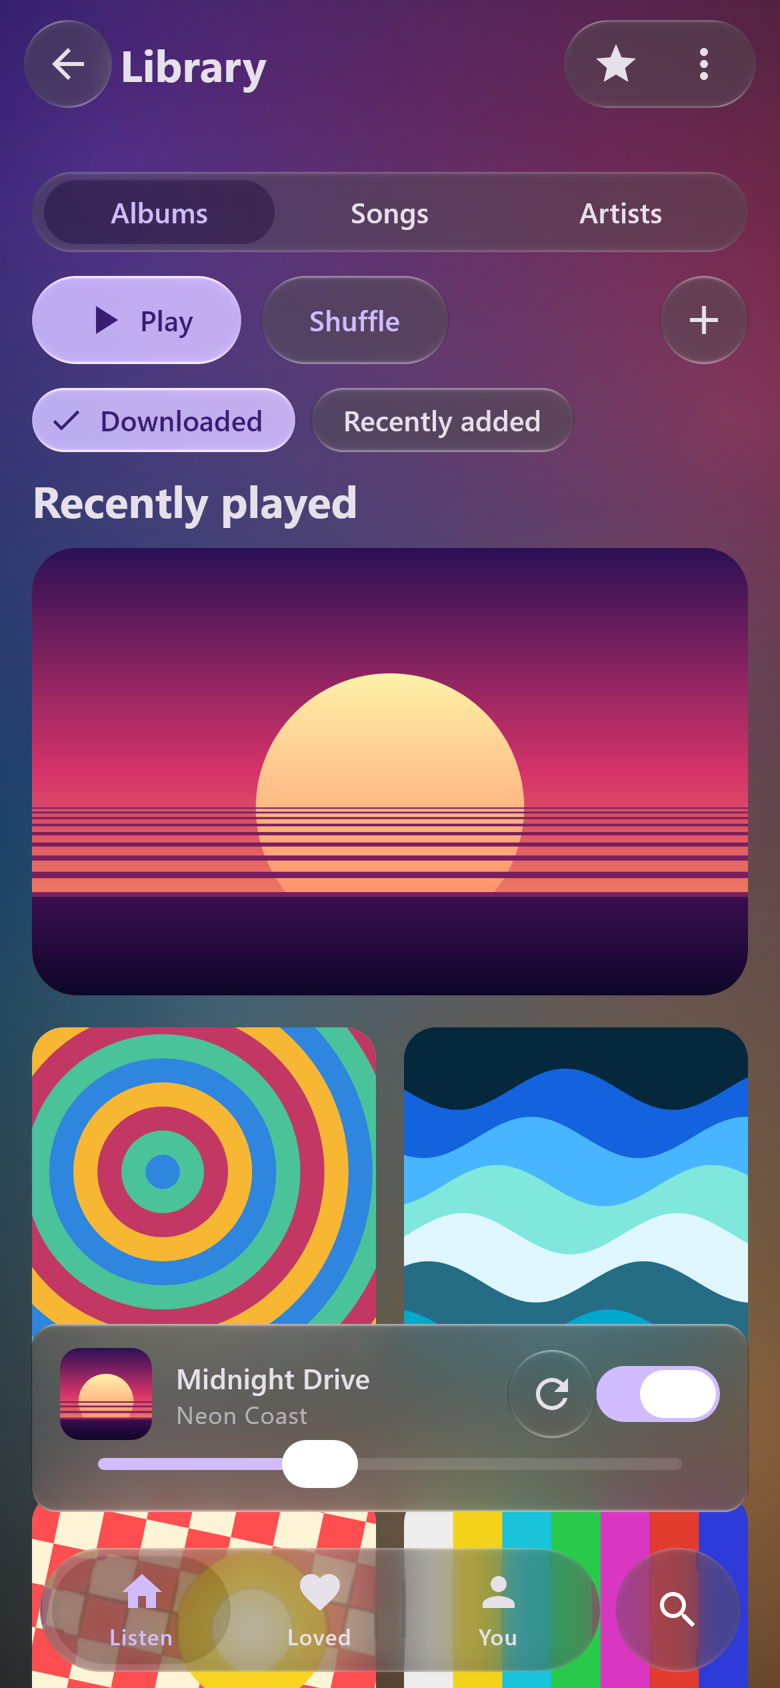
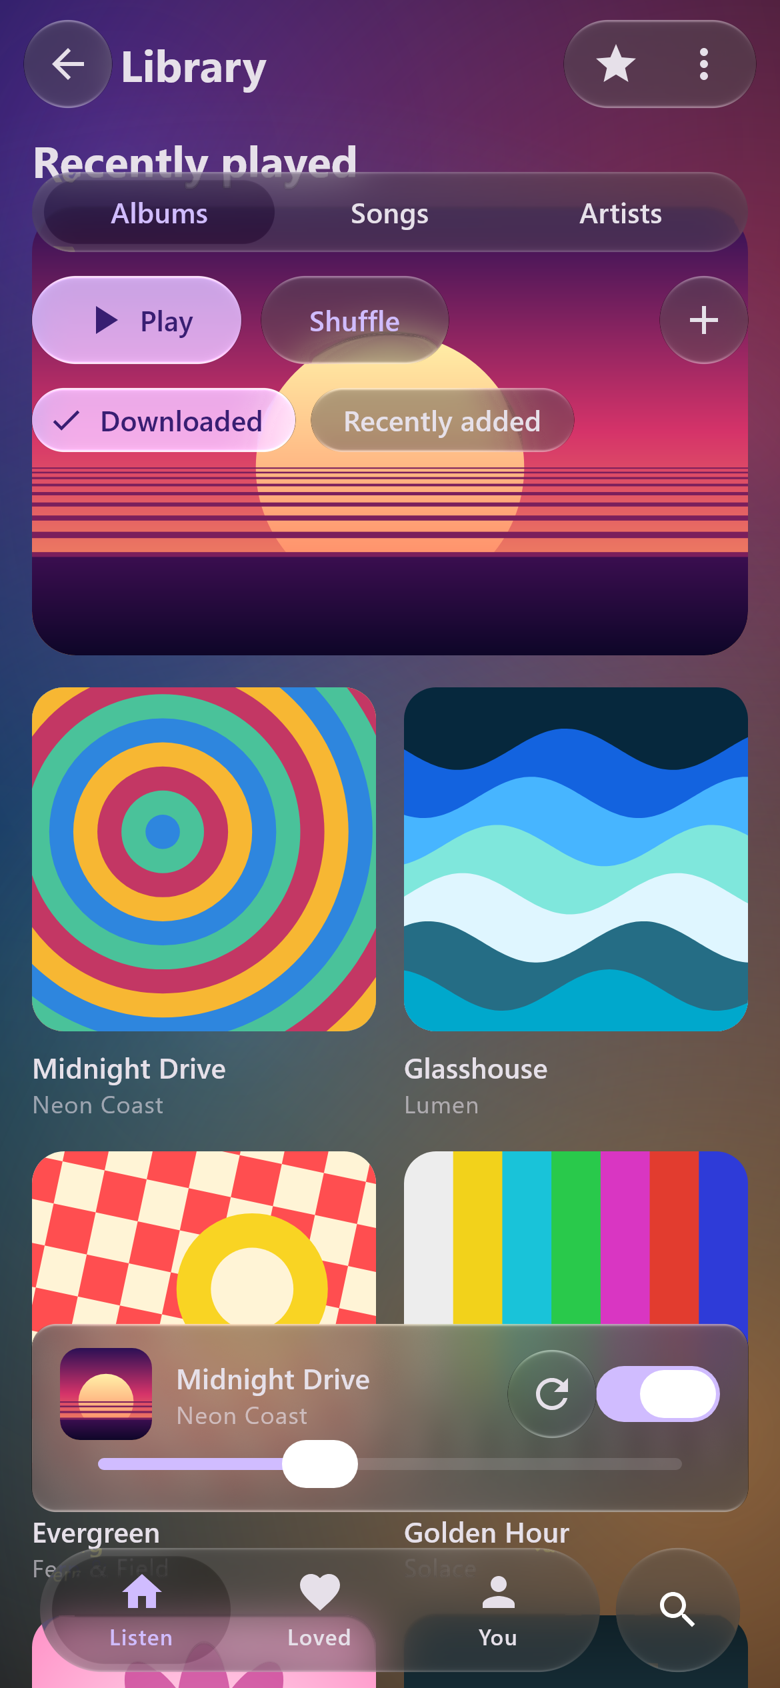
Android: tall frosted glass keeps its backdrop; the showcase scrolls under its glass
On Android the frost blur was chained ahead of the glass shader, and Skia
evaluates a chained blur only inside the window, while the shader also samples
the wide-tone strip recorded below the element. A tall sheet at the bottom of
the screen lost every row reading that strip and showed a flat block. Android
now blurs the backdrop composite in a nested layer (backdropBlurInRecording);
desktop and web keep Skia's filter graph and are unchanged. Pixel 7 before and
after in review/atlas/android-frost-2026-10-19. Core suite 413/0/27.

MaterialShowcase(startScroll, startSheet): the README and docs now show it
scrolled, with album art under the top glass. The star button has a glass
tooltip; a long press that shows a tooltip no longer also clicks its anchor.

diff --git a/liquidglass/src/commonMain/kotlin/com/wexpa/liquidglass/LiquidGlass.kt b/liquidglass/src/commonMain/kotlin/com/wexpa/liquidglass/LiquidGlass.kt
@@ -328,6 +328,9 @@ internal fun Modifier.liquidGlassCore(
     val shadowLayer = rememberGraphicsLayer()
     // The raw backdrop that GlassStyle.rawShare adds, blurred by GlassStyle.rawBlur.
     val rawLayer = rememberGraphicsLayer()
+    // The backdrop composite blurred on its own, where the platform cannot chain the frost ahead of
+    // the shader (see backdropBlurInRecording).
+    val frostLayer = rememberGraphicsLayer()
     // Effects are rebuilt only when their inputs change: building one binds some fifty
     // uniforms and allocates, per panel, and on a scrolling screen the inputs are the same
     // frame after frame (the backdrop changes, the uniforms do not).
@@ -690,7 +693,15 @@ internal fun Modifier.liquidGlassCore(
                     wideStrip = if (useWide) paddedSize.height.toFloat() else 0f,
                     wideScale = wideScale,
                 )
-                val effect = effects.panel(uniforms)
+                // The frost (backdropSigma, or the legacy backdropBlur radius). Where the platform
+                // evaluates a blur chained ahead of the shader only inside the window, a panel whose
+                // strip of wide tone lies off-screen (a tall sheet at the bottom of the screen) loses
+                // the rows the shader samples there; there the frost is baked into the recording
+                // instead and the panel's own effect carries no blur.
+                val frostSigmaPx = if (style.backdropSigma.isSpecified && style.backdropSigma.value > 0f) style.backdropSigma.toPx() * rs else 0f
+                val frostRadiusPx = style.backdropBlur.toPx() * rs
+                val frostInRecording = backdropBlurInRecording && (frostSigmaPx > 0f || frostRadiusPx > 0f)
+                val effect = effects.panel(if (frostInRecording) uniforms.copy(backdropSigma = 0f, backdropBlur = 0f) else uniforms)
                 if (effect != null) {
                     val fullPadded = IntSize(
                         (size.width + pad * 2f).toInt().coerceAtLeast(1),
@@ -764,7 +775,10 @@ internal fun Modifier.liquidGlassCore(
                         }
                         wideLayer.renderEffect = effects.wide(uniforms.wideKernel * wideScale)
                     }
-                    glassLayer.record(size = IntSize(paddedSize.width, paddedSize.height + stripSize.height)) {
+                    // The backdrop composite: the ground, the slice under the panel, its shadow and
+                    // whatever sits between. Drawn straight into the panel's layer, or into the frost
+                    // layer first where the frost is baked in (frostInRecording).
+                    val backdropComposite: androidx.compose.ui.graphics.drawscope.DrawScope.() -> Unit = {
                       scale(rs, rs, pivot = Offset.Zero) {
                     // Fill with the ground first. The padded slice reaches past the backdrop
                     // near a screen edge, and the backdrop is itself transparent wherever the
@@ -799,6 +813,13 @@ internal fun Modifier.liquidGlassCore(
                             }
                         }
                       }
+                    }
+                    if (frostInRecording) {
+                        frostLayer.record(size = paddedSize) { backdropComposite() }
+                        frostLayer.renderEffect = effects.frost(frostSigmaPx, frostRadiusPx)
+                    }
+                    glassLayer.record(size = IntSize(paddedSize.width, paddedSize.height + stripSize.height)) {
+                      if (frostInRecording) drawLayer(frostLayer) else backdropComposite()
                       // The strip goes in LAST: the ground fill and the backdrop above are drawn
                       // over the whole layer, strip rows included, and would paint over it.
                       if (useWide) {
@@ -1085,6 +1106,20 @@ internal class GlassEffectCache {
         return wideEffect
     }
 
+    private var frostKey: Pair<Float, Float>? = null
+    private var frostEffect: androidx.compose.ui.graphics.RenderEffect? = null
+
+    /** The frost baked into the recording: a [sigmaPx] (backdropSigma) or else a legacy [radiusPx]. */
+    fun frost(sigmaPx: Float, radiusPx: Float): androidx.compose.ui.graphics.RenderEffect {
+        val key = sigmaPx to radiusPx
+        if (key != frostKey) {
+            val r = if (sigmaPx > 0f) platformBlurRadiusForSigma(sigmaPx) else radiusPx
+            frostEffect = BlurEffect(r, r, TileMode.Clamp)
+            frostKey = key
+        }
+        return frostEffect!!
+    }
+
     fun raw(blurPx: Float): androidx.compose.ui.graphics.RenderEffect {
         if (blurPx != rawSigma) {
             rawEffect = BlurEffect(blurPx, blurPx, TileMode.Clamp)
@@ -1122,6 +1157,13 @@ expect object LiquidGlassSupport {
 
 /** The host can bind separately transformed material and ink inputs to one aperture effect. */
 internal expect val supportsGlassEndpointInputs: Boolean
+
+/**
+ * True where a blur chained ahead of the glass shader is evaluated only inside the window (Android's
+ * RenderEffect chain), so the frost has to be baked into the recording instead. Skia's image-filter
+ * graph on desktop and the web blurs the backdrop as a separate input and keeps the chain.
+ */
+internal expect val backdropBlurInRecording: Boolean
 
 /**
  * Corner radii in px, in the order the shader expects: TL, TR, BR, BL.

diff --git a/sample/src/main/kotlin/shared/com/wexpa/liquidglass/sample/MaterialShowcase.kt b/sample/src/main/kotlin/shared/com/wexpa/liquidglass/sample/MaterialShowcase.kt
@@ -5,6 +5,7 @@ import androidx.compose.foundation.layout.*
 import androidx.compose.foundation.lazy.grid.GridCells
 import androidx.compose.foundation.lazy.grid.GridItemSpan
 import androidx.compose.foundation.lazy.grid.LazyVerticalGrid
+import androidx.compose.foundation.lazy.grid.rememberLazyGridState
 import androidx.compose.foundation.shape.RoundedCornerShape
 import androidx.compose.material.icons.Icons
 import androidx.compose.material.icons.automirrored.filled.ArrowBack
@@ -12,6 +13,8 @@ import androidx.compose.material.icons.filled.*
 import androidx.compose.material3.Icon
 import androidx.compose.material3.MaterialTheme
 import androidx.compose.material3.Text
+import androidx.compose.material3.TooltipDefaults
+import androidx.compose.material3.rememberTooltipState
 import androidx.compose.material3.darkColorScheme
 import androidx.compose.material3.lightColorScheme
 import androidx.compose.runtime.*
@@ -27,6 +30,8 @@ import androidx.compose.ui.graphics.drawscope.DrawScope
 import androidx.compose.ui.graphics.drawscope.Stroke
 import androidx.compose.ui.graphics.drawscope.rotate
 import androidx.compose.ui.text.font.FontWeight
+import androidx.compose.ui.platform.LocalDensity
+import androidx.compose.ui.unit.Dp
 import androidx.compose.ui.unit.dp
 import com.wexpa.liquidglass.material3.*
 import kotlin.math.PI
@@ -48,7 +53,13 @@ private val Albums = listOf(
  */
 @OptIn(androidx.compose.material3.ExperimentalMaterial3Api::class)
 @Composable
-fun MaterialShowcase(onSwitchScreen: () -> Unit, startDark: Boolean = false) {
+fun MaterialShowcase(
+    onSwitchScreen: () -> Unit,
+    startDark: Boolean = false,
+    startSheet: Boolean = false,
+    /** Start scrolled this far, so the album art already sits under the top bar's glass. */
+    startScroll: Dp = 0.dp,
+) {
     var dark by remember { mutableStateOf(startDark) }
     MaterialTheme(colorScheme = if (dark) darkColorScheme() else lightColorScheme()) {
         var tab by remember { mutableIntStateOf(0) }
@@ -57,7 +68,7 @@ fun MaterialShowcase(onSwitchScreen: () -> Unit, startDark: Boolean = false) {
         var progress by remember { mutableFloatStateOf(.38f) }
         var crossfade by remember { mutableStateOf(true) }
         var dialog by remember { mutableStateOf(false) }
-        var sheet by remember { mutableStateOf(false) }
+        var sheet by remember { mutableStateOf(startSheet) }
         var menu by remember { mutableStateOf(false) }
         var downloaded by remember { mutableStateOf(true) }
         Scaffold(
@@ -67,7 +78,11 @@ fun MaterialShowcase(onSwitchScreen: () -> Unit, startDark: Boolean = false) {
                     title = { Text("Library", fontWeight = FontWeight.Bold) },
                     navigationIcon = { IconButton(onClick = onSwitchScreen) { Icon(Icons.AutoMirrored.Filled.ArrowBack, "Atlas Studio") } },
                     actions = {
-                        IconButton(onClick = { dark = !dark }) { Icon(Icons.Default.Star, "Switch light and dark") }
+                        // Hold (or hover) for the glass tooltip.
+                        TooltipBox(TooltipDefaults.rememberPlainTooltipPositionProvider(),
+                            { PlainTooltip { Text(if (dark) "Switch to light" else "Switch to dark") } }, rememberTooltipState()) {
+                            IconButton(onClick = { dark = !dark }) { Icon(Icons.Default.Star, "Switch light and dark") }
+                        }
                         Box {
                             IconButton(onClick = { menu = true }) { Icon(Icons.Default.MoreVert, "More") }
                             DropdownMenu(expanded = menu, onDismissRequest = { menu = false }) {
@@ -91,8 +106,10 @@ fun MaterialShowcase(onSwitchScreen: () -> Unit, startDark: Boolean = false) {
         ) { padding ->
             Box(Modifier.fillMaxSize()) {
                 Wallpaper(dark, Modifier.fillMaxSize())
+                val scrollPx = with(LocalDensity.current) { startScroll.roundToPx() }
                 LazyVerticalGrid(
                     GridCells.Adaptive(150.dp), Modifier.fillMaxSize(),
+                    state = rememberLazyGridState(initialFirstVisibleItemScrollOffset = scrollPx),
                     contentPadding = PaddingValues(start = 16.dp, end = 16.dp, top = padding.calculateTopPadding() + 172.dp, bottom = 240.dp),
                     horizontalArrangement = Arrangement.spacedBy(14.dp), verticalArrangement = Arrangement.spacedBy(16.dp),
                 ) {

diff --git a/desktop/src/desktopTest/kotlin/com/wexpa/liquidglass/sample/desktop/MaterialShowcaseRenderTest.kt b/desktop/src/desktopTest/kotlin/com/wexpa/liquidglass/sample/desktop/MaterialShowcaseRenderTest.kt
@@ -27,10 +27,10 @@ import kotlin.time.Duration.Companion.minutes
 class MaterialShowcaseRenderTest {
     private val out = File("build/reports/atlas/showcase").apply { mkdirs() }
 
-    private fun shoot(name: String, dark: Boolean) = runDesktopComposeUiTest(1170, 2532, testTimeout = 6.minutes) {
+    private fun shoot(name: String, dark: Boolean, scroll: androidx.compose.ui.unit.Dp = 0.dp) = runDesktopComposeUiTest(1170, 2532, testTimeout = 6.minutes) {
         setContent {
             CompositionLocalProvider(LocalDensity provides Density(3f)) {
-                Box(Modifier.size(390.dp, 844.dp).testTag("app")) { MaterialShowcase(onSwitchScreen = {}, startDark = dark) }
+                Box(Modifier.size(390.dp, 844.dp).testTag("app")) { MaterialShowcase(onSwitchScreen = {}, startDark = dark, startScroll = scroll) }
             }
         }
         waitForIdle()
@@ -39,4 +39,7 @@ class MaterialShowcaseRenderTest {
 
     @Test fun light() = shoot("showcase-light", dark = false)
     @Test fun dark() = shoot("showcase-dark", dark = true)
+    /** Scrolled so the hero art passes under the top bar, segmented control and buttons. */
+    @Test fun scrolled() = shoot("showcase-scrolled-light", dark = false, scroll = 170.dp)
+    @Test fun scrolledDark() = shoot("showcase-scrolled-dark", dark = true, scroll = 170.dp)
 }

diff --git a/liquidglass-material3/src/commonMain/kotlin/com/wexpa/liquidglass/material3/Tooltips.kt b/liquidglass-material3/src/commonMain/kotlin/com/wexpa/liquidglass/material3/Tooltips.kt
@@ -79,8 +79,14 @@ fun TooltipBox(
                 val up = waitForUpOrCancellation(PointerEventPass.Initial)
                 if (!shown) {
                     timer.cancel()
-                    if (up != null && up.uptimeMillis - down.uptimeMillis >= longPress) scope.launch { state.show() }
+                    if (up != null && up.uptimeMillis - down.uptimeMillis >= longPress) {
+                        shown = true
+                        scope.launch { state.show() }
+                    }
                 }
+                // A long press shows the tooltip and nothing else: as Material's TooltipBox, the
+                // release is consumed so the anchor does not also click.
+                if (shown) up?.consume()
             }
         }
         .pointerInput(state) {

diff --git a/liquidglass-material3/src/jvmTest/kotlin/com/wexpa/liquidglass/material3/GlassMaterialComponentsTest.kt b/liquidglass-material3/src/jvmTest/kotlin/com/wexpa/liquidglass/material3/GlassMaterialComponentsTest.kt
@@ -214,6 +214,8 @@ class GlassMaterialComponentsTest {
         onNodeWithTag("anchor").performTouchInput { longClick() }
         waitUntil(timeoutMillis = 10_000) { tip.isVisible }
         onNodeWithTag("tip", useUnmergedTree = true).assertExists()
+        waitForIdle()
+        assertEquals(1, clicks, "a long press for the tooltip must not also click its anchor")
     }
 
     @Test fun backDismissesOverlaysAndATallSheetStopsHalfway() = runDesktopComposeUiTest(390, 700, testTimeout = 4.minutes) {

diff --git a/liquidglass/src/androidMain/kotlin/com/wexpa/liquidglass/LiquidGlass.android.kt b/liquidglass/src/androidMain/kotlin/com/wexpa/liquidglass/LiquidGlass.android.kt
@@ -25,6 +25,8 @@ actual object LiquidGlassSupport {
 
 // Java RenderEffect exposes only one dynamic RuntimeShader input. Keep the verified composed
 // endpoint until a multi-input backend exists; never enable offscreen strip reads speculatively.
+internal actual val backdropBlurInRecording: Boolean = true
+
 internal actual val supportsGlassEndpointInputs: Boolean = false
 
 /**

diff --git a/liquidglass/src/skikoMain/kotlin/com/wexpa/liquidglass/LiquidGlass.skiko.kt b/liquidglass/src/skikoMain/kotlin/com/wexpa/liquidglass/LiquidGlass.skiko.kt
@@ -31,6 +31,8 @@ actual object LiquidGlassSupport {
     actual val hasBackdropBlur: Boolean = true
 }
 
+internal actual val backdropBlurInRecording: Boolean = false
+
 internal actual val supportsGlassEndpointInputs: Boolean = true
 
 /** One opaque pixel, so the `field` child is always bound even when nothing samples it. */

diff --git a/review/atlas/android-frost-2026-10-19/README.md b/review/atlas/android-frost-2026-10-19/README.md
@@ -1,0 +1,36 @@
+# Android: tall frosted glass loses its backdrop — fixed, 19 October 2026
+
+Found while checking the Material 3 sheet on the Pixel 7. On Android, a tall frosted panel near the
+bottom of the screen (the showcase's "Up next" sheet) showed the page only in a band at its top.
+Below that band it was a flat light block with a hard horizontal edge, and the left rim was flat too.
+Desktop and the web rendered the same sheet correctly.
+
+![Before (left, main at d379212) and after (right), the same sheet on a Pixel 7](sheet-before-after.png)
+
+*Pixel 7, Android 17, `adb exec-out screencap -p`, cropped to the sheet. Left: `main` before this
+fix. Right: this branch. The sheet is `ModalBottomSheet` with the frosted `GlassMaterialDefaults.panel`.*
+
+## Cause
+
+The frost (`backdropSigma`, or the legacy `backdropBlur`) was applied on Android by chaining a blur
+ahead of the glass shader (`RenderEffect.createChainEffect(glass, blur)`). Skia evaluates a chained
+blur only over the region it expects to be visible, which is clipped to the window. The glass
+shader, though, also samples a quarter-scale strip of wide tone that the recording keeps below the
+element. For a tall sheet at the bottom of the screen that strip lies past the window's edge. Those
+rows were never produced, and every pixel that read from them came out flat.
+
+The unfrosted path never had this problem, because its strip is blurred inside its own nested layer.
+A test with the same sheet in unfrosted glass on the Pixel showed the page across the whole sheet.
+
+## Fix
+
+On Android (`backdropBlurInRecording`), the backdrop composite is blurred in a nested layer of its own
+and drawn into the panel's recording, and the panel's effect carries no chained blur. Desktop and the
+web keep Skia's filter graph, which already blurs the backdrop as a separate input. Their pixels are
+unchanged.
+
+## Checks
+
+- Pixel 7: the frosted sheet shows the blurred page across its whole height (right, above).
+- `:liquidglass:jvmTest --rerun` on this branch: 413 tests, 0 failures, 27 skipped. The desktop path
+  is unchanged by construction (`backdropBlurInRecording` is false there).

diff --git a/review/atlas/showcase-2026-10-19/README.md b/review/atlas/showcase-2026-10-19/README.md
@@ -1,0 +1,23 @@
+# The showcase, scrolled, and its tooltip — 19 October 2026
+
+Glass is only as visible as what is behind it. At rest, the showcase's top controls sit over a smooth
+wallpaper, which gives the rim nothing to bend. Scrolled, as an app is most of the time, the album art
+passes under the top bar, the segmented control, the buttons and the chips. The refraction, the lit
+rims and the iOS 27 contour then read the way they do on an iPhone.
+
+| Light | Dark |
+| :-: | :-: |
+| ![The showcase scrolled 170 dp: the sunset cover under the glass segmented control, buttons and chips (light)](showcase-scrolled-light.png) | ![The same, dark](showcase-scrolled-dark.png) |
+
+*`MaterialShowcaseRenderTest.scrolled` and `scrolledDark` (desktop JVM, Skia raster, 390 × 844 dp at
+density 3). `MaterialShowcase(startScroll = 170.dp)` starts the grid scrolled. These are the README's
+hero images.*
+
+## The showcase's tooltip, on a Pixel 7
+
+![Left: holding the star shows a glass tooltip, "Switch to dark"; right: two seconds later it has gone and the app is still light](pixel7-tooltip.png)
+
+*Pixel 7, Android 17, `adb shell input swipe` held for 900 ms on the star, captured with `adb exec-out
+screencap -p` 0.3 s and 2.3 s later, cropped to the top right. The first build also toggled the
+theme on release. The tooltip now consumes the release after a long press, as Material's does, and
+`GlassMaterialComponentsTest` checks that the anchor does not click.*

diff --git a/docs/material3.md b/docs/material3.md
@@ -8,7 +8,7 @@ shapes and motion in its own colour scheme.
   <img src="assets/material3-light.png" width="300" alt="A Material 3 music app in glass, light scheme: top bar, segmented control, buttons, chips, a frosted mini player with a switch and a slider, and the tab bar with a search button, over album art">
   <img src="assets/material3-dark.png" width="300" alt="The same app in the dark scheme">
 </p>
-<p align="center"><sub>Rendered by the library (desktop Skia, 390 × 844 dp at density 3, scaled down) from Material's default light and dark schemes; only the imports differ from a Material 3 app. The same screen runs on Android and in the browser. <a href="https://github.com/shayann07/liquidglass/blob/main/review/atlas/glass-quality-2026-10-18/README.md">Evidence and limits</a>, including a Pixel 7 capture.</sub></p>
+<p align="center"><sub>Rendered by the library (desktop Skia, 390 × 844 dp at density 3, scaled down), scrolled so the album art passes under the glass, from Material's default light and dark schemes; only the imports differ from a Material 3 app. The same screen runs on Android and in the browser. <a href="https://github.com/shayann07/liquidglass/blob/main/review/atlas/showcase-2026-10-19/README.md">Evidence and limits</a>, including Pixel 7 captures.</sub></p>
 
 [Try it in your browser](demo.md#material-3). The change is the imports:
 

diff --git a/CHANGELOG.md b/CHANGELOG.md
@@ -5,6 +5,21 @@ This file records user-visible development changes. Published artifacts are iden
 
 ## Unreleased — Atlas stabilization
 
+### Changed — the showcase scrolls under its glass; tooltip fix (19 October)
+
+- `MaterialShowcase(startScroll = …)` starts scrolled, so the album art passes under the top bar's
+  glass. The README and docs show it that way, and the star button has a glass tooltip.
+- A long press that shows a glass tooltip no longer also clicks its anchor; the release is consumed,
+  as in Material.
+
+### Fixed — Android: tall frosted glass lost its backdrop (19 October)
+
+- On Android, a tall frosted panel near the bottom of the screen showed the page only in a band at its
+  top. A Material sheet is one example. The frost blur was chained ahead of the shader and evaluated
+  only inside the window, while the shader also samples a strip recorded below the element. Android
+  now blurs the backdrop in a nested layer instead; desktop and the web are unchanged. Evidence:
+  `review/atlas/android-frost-2026-10-19`.
+
 ### Added — the rest of Material 3 in glass (19 October)
 
 - Glass versions of the remaining Material 3 components that have a container:

diff --git a/README.md b/README.md
@@ -46,8 +46,8 @@ Scaffold(bottomBar = {
 Or let the Gradle plugin do it: `./gradlew liquidGlassAdopt` switches the imports once.
 
 <p align="center">
-  <img src="review/atlas/ios27-rim-2026-10-19/showcase-light.png" width="300" alt="A Material 3 music app in glass, light scheme: glass top bar, segmented control, buttons, chips, a frosted mini player and the floating tab bar over album art">
-  <img src="review/atlas/ios27-rim-2026-10-19/showcase-dark.png" width="300" alt="The same app, dark scheme">
+  <img src="review/atlas/showcase-2026-10-19/showcase-scrolled-light.png" width="300" alt="A Material 3 music app in glass, light scheme: glass top bar, segmented control, buttons, chips, a frosted mini player and the floating tab bar over album art">
+  <img src="review/atlas/showcase-2026-10-19/showcase-scrolled-dark.png" width="300" alt="The same app, dark scheme">
 </p>
 
 **Any composable: one modifier.** The names are SwiftUI's, so anyone who knows Apple's API knows this one.
